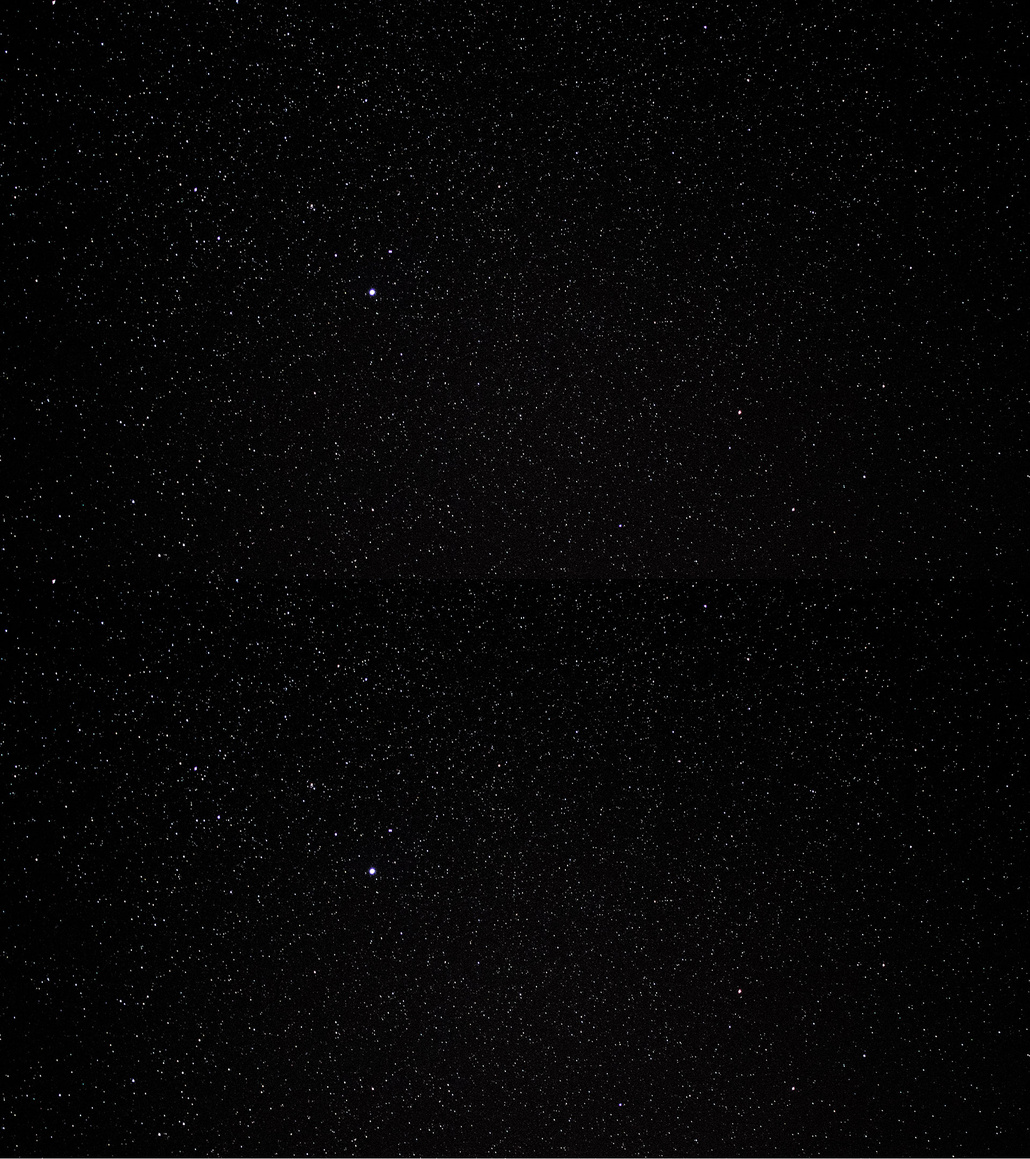
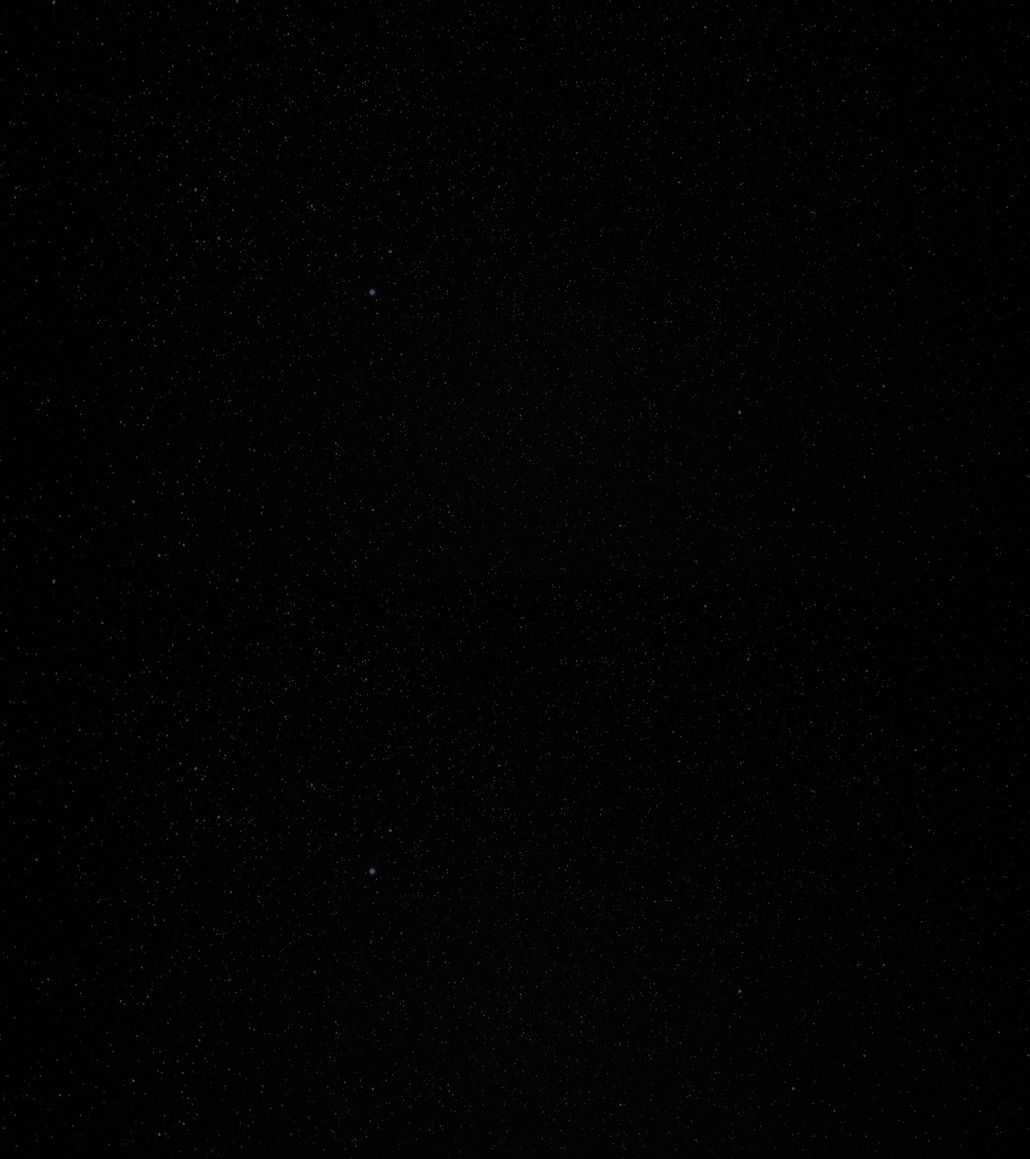
Добавил движущийся фон

diff --git a/alien_invasion.py b/alien_invasion.py
@@ -21,8 +21,14 @@ class AlienInvasion:
         pygame.init()
         self.settings = Settings()
 
-        # self.screen = pygame.display.set_mode((self.settings.screen_width, self.settings.screen_height))
         self.screen = pygame.display.set_mode((0, 0), pygame.FULLSCREEN)
+
+        # Управление фоном
+        self.background = pygame.image.load('images/space-long.jpg')
+        self.background_rect = self.background.get_rect()
+        self.background_y = -self.background_rect.height // 2
+        self.screen.blit(self.background, (0, int(self.background_y)))
+
         self.settings.screen_width = self.screen.get_rect().width
         self.settings.screen_height = self.screen.get_rect().height
         pygame.display.set_caption("Инопланетное вторжение")
@@ -50,6 +56,7 @@ class AlienInvasion:
 
             if self.stats.game_active:
                 self.ship.update()
+                self._update_background()
                 self._update_bullets()
                 self._update_aliens()
                 self._check_bangs()
@@ -170,7 +177,7 @@ class AlienInvasion:
         """
         Обновляет изображения на экране и отображает новый экран.
         """
-        self.screen.fill(self.settings.bg_color)
+
         self.ship.blitme()
         for bullet in self.bullets.sprites():
             bullet.draw_bullet()
@@ -185,6 +192,17 @@ class AlienInvasion:
 
         # Отображение последнего прорисованного экрана.
         pygame.display.flip()
+
+    def _update_background(self):
+        """
+        Обновляет космическое небо.
+        """
+
+        self.background_y += self.settings.bg_speed
+        if self.background_y > 0:
+            self.background_y = -self.background_rect.height // 2
+
+        self.screen.blit(self.background, (0, int(self.background_y)))
 
     def _fire_bullet(self):
         """

diff --git a/settings.py b/settings.py
@@ -8,6 +8,7 @@ class Settings:
         self.screen_width = 1920
         self.screen_height = 928
         self.bg_color = (230, 230, 230)
+        self.bg_speed = 0.3
         self.speedup_scale = 1.1
         self.score_scale = 1.5
 
